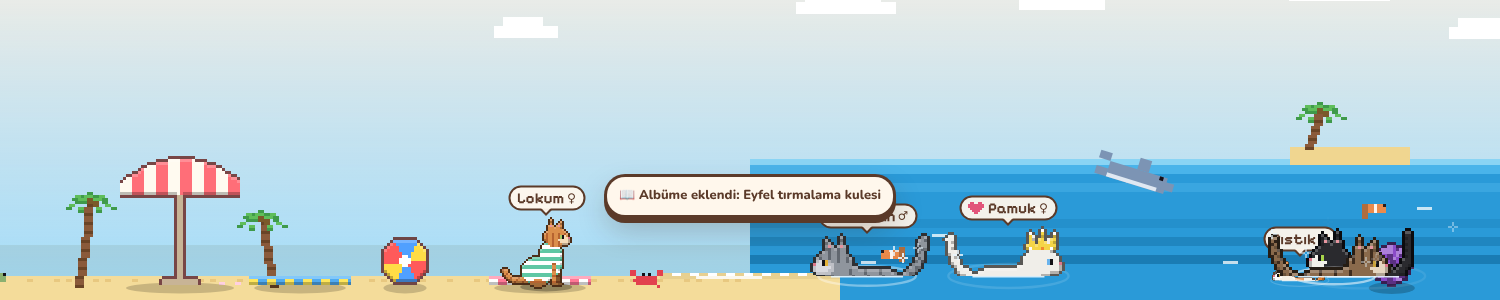
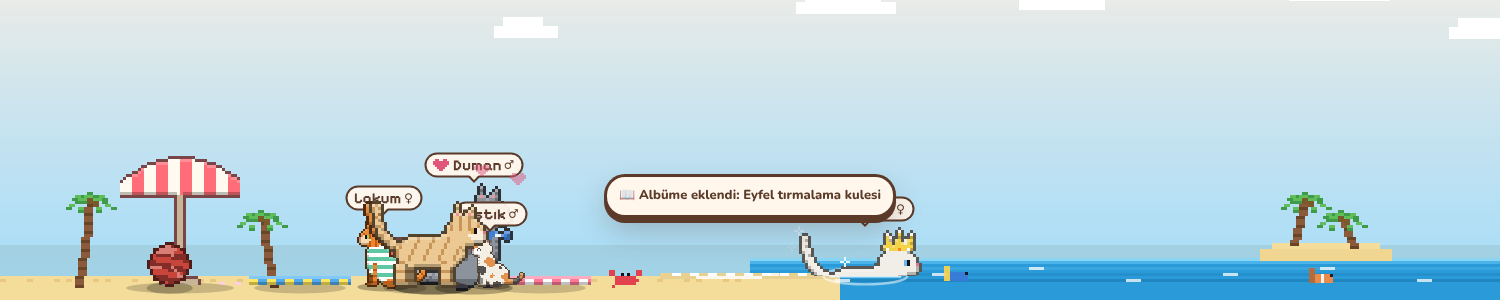
Illustrated city streets with signs on the buildings (market inside, park gate, airport), no separate square; the sea comes up to the sand; landmarks and flags in every city's park; animals stay out of the sea; 58 cat cards (world-tour and seasonal ones); up to ten clouds

diff --git a/src/world.js b/src/world.js
@@ -25,7 +25,7 @@
       lv: (n) => `🐾 Seviye ${n}`, here: "📍 Buradasın", fly: (c) => `✈ Uç · ${c}🪙`, flyHome: "🏠 Eve uç · ücretsiz", locked: (n) => `🔒 Seviye ${n} olunca açılır`, enter: "🏙 Şehre gir",
       park: (b) => `🌳 Park: ${b}`, famous: (d) => `🍽 Meşhur: ${d}`, animal: (a) => `🐾 Hayvanı: ${a}`, items: (n) => `🛍 ${n} şehre özel ürün`, stamps: (a, b) => `🛂 ${a} / ${b} damga`,
       landed: (f, n) => `✈ ${f} ${n}'e vardın!`, first: (n) => `🛂 Pasaportuna yeni damga: ${n}! +10🪙`, home: "Ev", pick: "Haritada bir şehre dokun.",
-      b: { shop: "🛒 Pazar", park: "🌳 Park", square: "🎪 Meydan", map: "🌍 Harita", home: "🏠 Eve dön" },
+      b: { shop: "🛒 Pazar", park: "🌳 Park", square: "🎪 Meydan", airport: "✈ Havalimanı", map: "🌍 Harita", home: "🏠 Eve dön" }, tapBld: "Bir binanın tabelasına dokun, içeri gir.",
       shopH: "Şehre özel pazar", shopNote: "Bu eşyalar sadece bu şehrin pazarında satılır.", bought: (n) => `🛍 ${n} alındı!`, have: (n) => `Sende: ${n}`, cityPark: (c, b) => `${c} parkı · ${b}`,
       search: "Şehir ara…", none: "Bulunamadı",
     },
@@ -34,7 +34,7 @@
       lv: (n) => `🐾 Level ${n}`, here: "📍 You are here", fly: (c) => `✈ Fly · ${c}🪙`, flyHome: "🏠 Fly home · free", locked: (n) => `🔒 Opens at level ${n}`, enter: "🏙 Enter the city",
       park: (b) => `🌳 Park: ${b}`, famous: (d) => `🍽 Famous for: ${d}`, animal: (a) => `🐾 Its animal: ${a}`, items: (n) => `🛍 ${n} things sold only here`, stamps: (a, b) => `🛂 ${a} / ${b} stamps`,
       landed: (f, n) => `✈ ${f} You've landed in ${n}!`, first: (n) => `🛂 A new passport stamp: ${n}! +10🪙`, home: "Home", pick: "Tap a city on the map.",
-      b: { shop: "🛒 Market", park: "🌳 Park", square: "🎪 Square", map: "🌍 Map", home: "🏠 Go home" },
+      b: { shop: "🛒 Market", park: "🌳 Park", square: "🎪 Square", airport: "✈ Airport", map: "🌍 Map", home: "🏠 Go home" }, tapBld: "Tap a building's sign to go in.",
       shopH: "This city's market", shopNote: "These are sold only in this city's market.", bought: (n) => `🛍 Bought: ${n}`, have: (n) => `You have ${n}`, cityPark: (c, b) => `${c} park · ${b}`,
       search: "Find a city…", none: "Not found",
     },
@@ -86,10 +86,10 @@
     }
     function render() {
       const s = t(), x = X(), cur = here();
-      const k = [L.lang, mode, view, sel, x.at, x.visited.length, lvl(), L.wallet.coins, q, mode === "city" ? JSON.stringify(L.pantry) + L.home.items.length : ""].join("|"); if (k === key) return; key = k;
+      const k = [L.lang, mode, view, sel, x.at, x.visited.length, lvl(), L.wallet.coins, q, mode !== "map" ? JSON.stringify(L.pantry) + L.home.items.length : ""].join("|"); if (k === key) return; key = k;
       const sc = root.querySelector(".mk-body"), keep = sc ? sc.scrollTop : 0;
       const head = `<div class="mk-head"><b>🌍 ${esc(s.title)}</b><span class="mk-wal"><span class="coin">🪙 ${L.wallet.coins}</span><span class="star">${esc(s.lv(lvl()))}</span></span><button type="button" class="st-x" data-a="close">×</button></div>`;
-      if (mode === "city") { root.innerHTML = head + `<div class="mk-body">${cityHtml(cur, s)}</div>`; afterCity(cur); }
+      if (mode === "city" || mode === "shop") { root.innerHTML = head + `<div class="mk-body">${mode === "shop" ? shopHtml(cur, s) : cityHtml(cur, s)}</div>`; afterCity(cur); }
       else {
         const { proj } = drawMap(), [lo0, lo1, la0, la1] = VIEWS[view];
         const vis = WD.CITIES.filter((c) => c.lon >= lo0 - 1 && c.lon <= lo1 + 1 && c.lat <= la0 + 1 && c.lat >= la1 - 1);
@@ -117,27 +117,91 @@
           : atHere ? `<button type="button" class="mk-wide gold" data-enter="1">${esc(s.enter)}</button>`
           : `<button type="button" class="mk-wide gold" data-fly="${c.id}"${L.wallet.coins < price ? " disabled" : ""}>${esc(c.id === HOME ? s.flyHome : s.fly(price))}</button>`}`;
     }
+    // ---- the city: a pixel street with its buildings; each building has a sign you tap to go in
+    const BLD = [["shop", 6, 66, 68], ["park", 148, 50, 84], ["airport", 204, 52, 60]];      // id, x, width, where its sign hangs
     function cityHtml(c, s) {
-      const B = A.BIOMES[c.biome] || A.BIOMES.city;
+      return `<div class="wm-street"><canvas width="260" height="170" data-street="${c.id}"></canvas>
+        ${BLD.map(([b, x, w, y]) => `<button type="button" class="wm-bld" data-b="${b}" style="left:${(x / 260) * 100}%;width:${(w / 260) * 100}%;--sy:${(y / 170) * 100}%"><span>${esc(s.b[b])}</span></button>`).join("")}
+        <span class="wm-cityname"><i style="background:${flagCss(c)}"></i>${esc(c.name[L.lang])}</span>
+        ${c.id !== HOME ? `<button type="button" class="wm-homebtn" data-b="home" title="${esc(s.b.home)}">🏠</button>` : ""}</div>
+        <p class="mk-note">${esc(s.tapBld)}</p>
+        <ul class="wm-facts"><li>${esc(s.park((A.BIOMES[c.biome] || A.BIOMES.city)[L.lang]))}</li><li>${esc(s.famous(`${c.dishE} ${c.dish[L.lang]}`))}</li></ul>`;
+    }
+    function shopHtml(c, s) {
       const items = WI.itemsOf(c.id).map((id) => {
         const f = DC.FURN[id], food = L.FOOD[id], names = food ? window.CatMarketSTR[L.lang].foods[id] : L.t("furn")[id], price = f ? f.price : food.price;
         const have = food ? L.pantry[id] || 0 : L.home.items.filter((i) => i.k === id).length;
         return `<div class="mk-card"><div class="mk-pic">${food ? `<div class="mk-emo">${food.e}</div>` : `<canvas width="96" height="72" data-f="${id}"></canvas>`}</div><b>${esc(names[0])}</b><small>${esc(names[1])}</small>
           <div class="mk-foot"><em>${have ? esc(s.have(have)) : ""}</em><button type="button" class="mk-buy" data-buy="${id}"${L.wallet.coins < price ? " disabled" : ""}>🪙 ${price}</button></div></div>`;
       }).join("");
-      return `<div class="wm-sky"><canvas width="520" height="150" data-sky="${c.id}"></canvas><span class="wm-cityname"><i style="background:${flagCss(c)}"></i>${esc(c.name[L.lang])}</span></div>
-        <div class="wm-builds">${["shop", "park", "square", "map", ...(c.id !== HOME ? ["home"] : [])].map((b) => `<button type="button" data-b="${b}">${esc(s.b[b])}</button>`).join("")}</div>
-        <p class="mk-note">${esc(s.cityPark(c.name[L.lang], B[L.lang]))}</p>
-        <h4 class="mk-h" id="wm-shop">🛒 ${esc(s.shopH)}</h4><p class="mk-note">${esc(s.shopNote)}</p><div class="mk-grid">${items}</div>`;
+      return `<div class="wm-shophead"><button type="button" data-b="back">← ${esc(c.name[L.lang])}</button><b>🛒 ${esc(s.shopH)}</b></div>
+        <div class="wm-shopsign"><canvas width="260" height="60" data-shopsign="${c.id}"></canvas></div>
+        <p class="mk-note">${esc(s.shopNote)}</p><div class="mk-grid">${items}</div>`;
+    }
+    // building styles by the part of the world
+    const STYLE = {
+      desert: { wall: "#e8cf98", dk: "#c8a868", roof: "dome", rc: "#e0b866" }, savanna: { wall: "#d8a870", dk: "#b8884a", roof: "thatch", rc: "#c8a050" },
+      jungle: { wall: "#c8a070", dk: "#a8804a", roof: "thatch", rc: "#a88a3a" }, island: { wall: "#f4e4c4", dk: "#d8c49a", roof: "thatch", rc: "#c8a050" },
+      polar: { wall: "#c8463a", dk: "#9a3228", roof: "snow", rc: "#4a3a3a" }, taiga: { wall: "#8a5a32", dk: "#6a4426", roof: "snow", rc: "#4a2e1e" }, fjord: { wall: "#b8342a", dk: "#8a2420", roof: "snow", rc: "#3a3a3a" },
+      sakura: { wall: "#f4ece0", dk: "#d8cbb8", roof: "pagoda", rc: "#3a4a5a" }, bamboo: { wall: "#f4ece0", dk: "#d8cbb8", roof: "pagoda", rc: "#2a6a5a" },
+      med: { wall: "#fbfbfd", dk: "#d8dce4", roof: "flat", rc: "#2a6ad8" }, mountain: { wall: "#f0e6d4", dk: "#c8b898", roof: "chalet", rc: "#6a4426" },
+      steppe: { wall: "#f4ece0", dk: "#d8c8b0", roof: "yurt", rc: "#c8402a" }, pampas: { wall: "#f0e0c8", dk: "#d0b890", roof: "tile", rc: "#c86a3a" },
+      outback: { wall: "#e8d4b8", dk: "#c8a888", roof: "tin", rc: "#9aa2b0" }, city: { wall: "#e8b088", dk: "#c88a62", roof: "tile", rc: "#a8483a" },
+    };
+    function drawStreet(cv, c) {
+      const g = cv.getContext("2d"), W = 260, H = 170, f = 128, B = A.BIOMES[c.biome], st = STYLE[c.biome] || STYLE.city;
+      const p = (x, y, w, h, col) => { g.fillStyle = col; g.fillRect(Math.round(x), Math.round(y), Math.ceil(w), Math.ceil(h)); };
+      g.fillStyle = "#bfe6ff"; g.fillRect(0, 0, W, H);
+      if (B && B.bg) B.bg(g, W, H, f + 2, 1, p, c); else { p(0, 0, W, f, "#cdeefe"); for (let i = 0; i < 5; i++) p(20 + i * 52, 20 + (i % 2) * 10, 22, 4, "#fff"); }
+      // the city's landmark behind the buildings (its first souvenir, drawn big), or a flag on a tall pole
+      const sv = WI.itemsOf(c.id).find((id) => id.startsWith("sv_") && DC.FURN[id].draw && DC.FURN[id].h >= 26);
+      if (sv) { const img = DC.FURN[sv].draw(), sc = Math.min(1.6, 80 / img.height); g.imageSmoothingEnabled = false; g.drawImage(img, Math.round(140 - img.width * sc / 2), Math.round(f - img.height * sc - 26), Math.round(img.width * sc), Math.round(img.height * sc)); }
+      // a building in the local style
+      const bld = (x, w, h, kind) => {
+        const y = f - h; p(x, y, w, h, st.wall); p(x, y + h - 3, w, 3, st.dk); for (let i = x + 4; i < x + w - 4; i += 10) { p(i, y + 8, 6, 7, "#9ad4f4"); p(i, y + 8, 6, 1, "#ffffff"); p(i, y + 15, 6, 1, st.dk); }
+        p(x + w / 2 - 5, f - 14, 10, 14, "#6a4426"); p(x + w / 2 - 4, f - 13, 8, 13, "#8a5a32"); p(x + w / 2 + 2, f - 7, 1, 1, "#ffd34d");
+        if (st.roof === "dome") { for (let i = 0; i < 12; i++) { const ww = Math.round(Math.sqrt(144 - (12 - i) * (12 - i)) * 1.6); p(x + w / 2 - ww / 2, y - 12 + i, ww, 1, st.rc); } p(x + w / 2, y - 15, 1, 3, "#ffd34d"); }
+        else if (st.roof === "thatch") { for (let i = 0; i < 10; i++) p(x - 4 + i, y - 10 + i, w + 8 - i * 2, 1, i % 2 ? st.rc : "#d8b868"); }
+        else if (st.roof === "snow") { for (let i = 0; i < 12; i++) p(x + w / 2 - (i * w / 22) - 2, y - 12 + i, (i * w / 11) + 4, 1, st.rc); p(x + w / 2 - 6, y - 13, 12, 2, "#f4f8ff"); for (let i = 0; i < 12; i += 3) p(x + w / 2 - (i * w / 22) - 3, y - 12 + i, 3, 1, "#f4f8ff"); }
+        else if (st.roof === "pagoda") { p(x - 6, y - 4, w + 12, 4, st.rc); p(x - 8, y - 5, 4, 2, st.rc); p(x + w + 4, y - 5, 4, 2, st.rc); p(x + 4, y - 9, w - 8, 5, "#c8323c"); p(x, y - 12, w, 3, st.rc); }
+        else if (st.roof === "chalet") { for (let i = 0; i < 14; i++) p(x + w / 2 - i * (w / 26) - 3, y - 14 + i, i * (w / 13) + 6, 1, st.rc); p(x + w / 2 - 4, y - 10, 8, 6, "#ffe9a0"); }
+        else if (st.roof === "yurt") { for (let i = 0; i < 10; i++) p(x + 4 - i * 0.4, y - 10 + i, w - 8 + i * 0.8, 1, i % 3 ? "#f4ece0" : st.rc); }
+        else if (st.roof === "flat") { p(x - 2, y - 3, w + 4, 3, st.rc); }
+        else if (st.roof === "tin") { p(x - 3, y - 6, w + 6, 6, st.rc); for (let i = x - 3; i < x + w + 3; i += 3) p(i, y - 6, 1, 6, "#c8ced8"); }
+        else { for (let i = 0; i < 10; i++) p(x + w / 2 - i * (w / 18) - 2, y - 10 + i, i * (w / 9) + 4, 1, i % 2 ? st.rc : "#c85a48"); }
+      };
+      // 🛒 the market: an awning, crates of fruit
+      bld(6, 66, 40); for (let i = 0; i < 66; i += 6) p(6 + i, f - 46, 6, 6, (i / 6) % 2 ? "#ffffff" : "#e2414e"); for (let i = 0; i < 66; i += 6) p(7 + i, f - 40, 4, 2, (i / 6) % 2 ? "#ffffff" : "#e2414e");
+      for (const [cx, col] of [[10, "#ff6a3a"], [52, "#ffd34d"], [60, "#7cc46a"]]) { p(cx, f - 8, 8, 8, "#a8743a"); p(cx + 1, f - 10, 6, 3, col); }
+      // the street is the square: a house in the local style, bunting, a fountain and the country's flag
+      p(80, f - 3, 60, 3, "#d8c8b0"); bld(96, 34, 30);
+      for (let x = 80; x < 140; x += 5) { p(x, f - 42 + Math.round(Math.sin(x / 7) * 2), 3, 3, ["#e2414e", "#ffd34d", "#3aa6e0", "#7cc46a"][(x / 5) % 4]); }
+      p(132, f - 50, 1, 50, "#6a6a72"); c.flag.forEach((col, i) => p(133, f - 50 + i * (10 / c.flag.length), 14, Math.ceil(10 / c.flag.length), col));
+      p(82, f - 10, 12, 7, "#c8ced8"); p(84, f - 12, 8, 2, "#7ac0f0"); p(87, f - 17, 2, 5, "#bfe6ff");
+      // 🌳 the park gate with trees behind
+      for (const tx of [152, 166, 186]) { p(tx + 2, f - 16, 3, 16, "#6a4a2a"); p(tx - 4, f - 30, 16, 14, "#4f9a45"); p(tx - 2, f - 34, 12, 5, "#6fb855"); }
+      p(148, f - 26, 4, 26, "#8a5a32"); p(194, f - 26, 4, 26, "#8a5a32"); p(146, f - 30, 54, 5, "#8a5a32"); p(150, f - 29, 46, 3, "#a8743a"); for (let x = 152; x < 194; x += 4) p(x, f - 10, 2, 10, "#e8d6b8"); p(150, f - 8, 44, 2, "#e8d6b8");
+      // ✈ the airport: a control tower, a hangar and a plane
+      p(206, f - 18, 34, 18, "#c8ced8"); for (let i = 0; i < 6; i++) p(206 + i * 2, f - 24 + i, 34 - i * 4 + 0, 1, "#9aa2b0"); p(212, f - 12, 22, 12, "#5a6474");
+      p(242, f - 46, 8, 46, "#e8ecf2"); p(239, f - 54, 14, 8, "#3a4a6a"); p(240, f - 53, 12, 5, "#9ad4f4"); p(245, f - 58, 2, 4, "#e2414e");
+      p(212, f - 34, 22, 4, "#fbfbfd"); p(220, f - 40, 4, 16, "#fbfbfd"); p(212, f - 37, 3, 4, "#fbfbfd"); p(231, f - 34, 3, 2, "#3aa6e0");
+      // the street
+      p(0, f, W, 5, "#d8d0c4"); p(0, f + 5, W, 22, "#6a6e78"); for (let x = 4; x < W; x += 14) p(x, f + 15, 7, 2, "#f4f0e6"); p(0, f + 27, W, H - f - 27, "#d8d0c4");
+      // the city's animal and a couple of cats out for a walk
+      if (A.ANIMALS[c.animal] && !A.ANIMALS[c.animal].swim) A.drawAnimal(g, c.animal, 200, A.ANIMALS[c.animal].fly ? 26 : f + 40, 1, 0.5, -1, "idle");
+      const mine = world.cats.filter((k) => k.profile).slice(0, 2);
+      mine.forEach((k, i) => { const t2 = document.createElement("canvas"); t2.width = 48; t2.height = 42; DC.portrait(t2.getContext("2d"), k.coat, { scale: 1, dx: 0, dy: 0, acc: k.profile.acc || {}, genes: k.profile.genes, pose: i ? "sit" : "walk", phase: 0.3, t: 1 }); g.imageSmoothingEnabled = false; g.drawImage(t2, 0, 0, 48, 42, 40 + i * 56, f + 40 - 26, 30, 26); });
+    }
+    function drawShopSign(cv, c) {
+      const g = cv.getContext("2d"), st = STYLE[c.biome] || STYLE.city, p = (x, y, w, h, col) => { g.fillStyle = col; g.fillRect(x, y, w, h); };
+      p(0, 0, 260, 60, st.wall); for (let i = 0; i < 260; i += 10) p(i, 0, 10, 10, (i / 10) % 2 ? "#ffffff" : "#e2414e"); for (let i = 0; i < 260; i += 10) p(i + 2, 10, 6, 3, (i / 10) % 2 ? "#ffffff" : "#e2414e");
+      p(0, 52, 260, 8, st.dk); const ids = WI.itemsOf(c.id).filter((id) => DC.FURN[id]).slice(0, 6);
+      ids.forEach((id, i) => { const img = DC.FURN[id].draw ? DC.FURN[id].draw() : null; if (!img) return; const sc = Math.min(1, 36 / img.height, 38 / img.width); g.imageSmoothingEnabled = false; g.drawImage(img, Math.round(14 + i * 42 + (38 - img.width * sc) / 2), Math.round(52 - img.height * sc), Math.round(img.width * sc), Math.round(img.height * sc)); });
     }
     function afterCity(c) {
-      const cv = root.querySelector("canvas[data-sky]"); if (cv) { const g = cv.getContext("2d"), B = A.BIOMES[c.biome]; g.fillStyle = "#bfe6ff"; g.fillRect(0, 0, 520, 150);
-        if (B && B.bg) B.bg(g, 520, 150, 140, 2, (x, y, w, h, col) => { g.fillStyle = col; g.fillRect(Math.round(x), Math.round(y), Math.ceil(w), Math.ceil(h)); }, c);
-        else { g.fillStyle = "#8fcf6b"; g.fillRect(0, 120, 520, 30); for (let i = 0; i < 8; i++) { const h = 30 + A.hash(i + 3) * 60; g.fillStyle = ["#f4ece0", "#e8dcc8", "#d8c8b0"][i % 3]; g.fillRect(i * 66 + 6, 120 - h, 50, h); g.fillStyle = "#7cc6e8"; for (let y = 120 - h + 6; y < 114; y += 12) g.fillRect(i * 66 + 14, y, 8, 6), g.fillRect(i * 66 + 34, y, 8, 6); } }
-        // a few of the region's animals in the picture
-        const list = [c.animal, ...(B ? B.animals : [])].filter((id) => A.ANIMALS[id] && !A.ANIMALS[id].swim).slice(0, 3);
-        list.forEach((id, i) => A.drawAnimal(g, id, 90 + i * 150, A.ANIMALS[id].fly ? 40 : 140, 2, 0.4 + i, i % 2 ? -1 : 1, "idle")); }
-      root.querySelectorAll("canvas[data-f]").forEach((cv) => DC.furnitureThumb(cv.dataset.f, cv.getContext("2d")));
+      const cv = root.querySelector("canvas[data-street]"); if (cv) drawStreet(cv, c);
+      const sg = root.querySelector("canvas[data-shopsign]"); if (sg) drawShopSign(sg, c);
+      root.querySelectorAll("canvas[data-f]").forEach((cv2) => DC.furnitureThumb(cv2.dataset.f, cv2.getContext("2d")));
     }
     root.addEventListener("click", (e) => {
       const b = e.target.closest("button"); if (!b) return; const d = b.dataset;
@@ -146,9 +210,10 @@
       else if (d.city) { sel = d.city; q = ""; }
       else if (d.fly) { fly(WD.byId[d.fly]); return; }
       else if (d.enter) mode = "city";
-      else if (d.b === "map") mode = "map";
+      else if (d.b === "map" || d.b === "airport") mode = "map";
+      else if (d.b === "back") mode = "city";
       else if (d.b === "home") { fly(WD.byId[HOME]); mode = "map"; return; }
-      else if (d.b === "shop") { const h = root.querySelector("#wm-shop"); if (h) h.scrollIntoView({ behavior: "smooth" }); return; }
+      else if (d.b === "shop") { mode = "shop"; const nb = root.querySelector(".mk-body"); if (nb) nb.scrollTop = 0; }
       else if (d.b === "park") { if (window.CatHub.now) window.CatHub.now.open("park"); return; }
       else if (d.b === "square") { if (window.CatHub.now) window.CatHub.now.open("events"); return; }
       else if (d.buy) { buy(d.buy, b); }

diff --git a/src/cat.js b/src/cat.js
@@ -3128,13 +3128,22 @@
       a.set("walk", 3, { target: mid - gap }); b.set("walk", 3, { target: mid + gap });
       setTimeout(() => { if (!this.park) return; a.facing = 1; b.facing = -1; const play = Math.random() < 0.35; a.set(play ? "playBow" : "boop", 1.6); b.set(play ? "pronk" : "boop", 1.6); this.burst(mid, this.floor - 34 * a.s, "heart", "#e2557a", 3); if (this.onSocial) this.onSocial(a, b); }, 2600);
     }
+    // the city's famous landmark, big, in the background of its park (the Eiffel tower in Paris, a torii in Tokyo…), and its flag
+    parkLandmark(g, k) {
+      const P = this.park, c = P && P.city, WI = window.CatWorldItems; if (!c || !WI) return;
+      const sv = WI.itemsOf(c.id).find((id) => id.startsWith("sv_") && FURN[id].draw && FURN[id].h >= 26 && !(c.id === "cairo" && id === "sv_pyramid")), f = this.floor, water = this.parkWater();
+      const x = water ? water.x0 * 0.62 : this.W * 0.42;
+      if (sv) { const img = FURN[sv].draw(), m = Math.max(1, Math.round(k * Math.min(1.6, 70 / img.height))); g.save(); g.globalAlpha = 0.92; g.imageSmoothingEnabled = false; g.drawImage(img, Math.round(x - img.width * m / 2), Math.round(f - img.height * m), img.width * m, img.height * m); g.restore(); }
+      const fx = x + (sv ? 60 * k : 0), fl = c.flag; g.fillStyle = "#6a6a72"; g.fillRect(fx, f - 56 * k, k, 56 * k);
+      fl.forEach((col, i) => { g.fillStyle = col; g.fillRect(fx + k, f - 56 * k + Math.floor(i * 10 / fl.length) * k, 16 * k, Math.ceil(10 / fl.length) * k); });
+    }
     // where the sea is in this park (null when there is none)
     parkWater() { const P = this.park, B = P && P.biome && window.CatWorldArt.BIOMES[P.biome]; return B && B.water ? { x0: this.W * (1 - B.water) } : null; }
     renderPark(ctx, dt = 0) {
       const P = this.park, W = this.W, H = this.H, k = Math.max(2, Math.round(this.toyScale)), f = this.floor, B = P.biome && window.CatWorldArt.BIOMES[P.biome];
       if (B && B.bg) {
         if (!P.img || P.img.width !== W || P.imgF !== f) { const c = document.createElement("canvas"); c.width = W; c.height = H; const g = c.getContext("2d"); P.img = c; P.imgF = f;
-          const px = (x, y, w, h, col) => { g.fillStyle = col; g.fillRect(Math.round(x), Math.round(y), Math.ceil(w), Math.ceil(h)); }; B.bg(g, W, H, f, k, px, P.city); }
+          const px = (x, y, w, h, col) => { g.fillStyle = col; g.fillRect(Math.round(x), Math.round(y), Math.ceil(w), Math.ceil(h)); }; B.bg(g, W, H, f, k, px, P.city); this.parkLandmark(g, k); }
         ctx.drawImage(P.img, 0, 0); if (B.front) B.front(ctx, this, dt, P.S);
         this.renderParkAnimals(ctx);
         if (B.snow) this.renderSnow(ctx, dt, k, 0.12);
@@ -3147,6 +3156,7 @@
         const gr = g.createLinearGradient(0, f - 260, 0, f); gr.addColorStop(0, "rgba(170,225,160,0)"); gr.addColorStop(1, "rgba(150,210,130,.55)"); g.fillStyle = gr; g.fillRect(0, f - 260, W, 260);
         for (let x = 0; x < W; x += 14 * k) { px(x, f - 26 * k, 3 * k, 24 * k, "#e8d6b8"); px(x, f - 28 * k, 3 * k, 2 * k, "#c9b08a"); }
         px(0, f - 20 * k, W, 2 * k, "#d9c29c"); px(0, f - 12 * k, W, 2 * k, "#d9c29c");
+        this.parkLandmark(g, k);                           // the city's landmark stands behind the trees
         // pixel-art trees: a lumpy canopy lit from the top left, a dark outline, a few leaf clusters, a trunk with bark and roots
         const tree = (x, sz, seed) => { const t = parkTree(seed), m = Math.max(2, Math.round(k * sz)); g.imageSmoothingEnabled = false; g.drawImage(t, Math.round(x - (t.width * m) / 2), Math.round(f - t.height * m + m), t.width * m, t.height * m); };
         for (const [x, sz, seed] of [[0.06, 1.25, 1], [0.27, 0.95, 2], [0.52, 1.35, 3], [0.76, 1.05, 4], [0.95, 1.2, 5]]) tree(W * x, sz, seed);
@@ -3179,7 +3189,7 @@
         else {                                                // walkers: stroll, stop to graze or look about
           if (a.pause > 0) { a.pause -= dt; a.st = a.graze ? "graze" : "idle"; }
           else { a.st = "walk"; a.x += a.dir * a.v * dt; if (Math.random() < dt * 0.12) { a.pause = rnd(2, 7); a.graze = Math.random() < 0.6; } }
-          if (water && a.kind === "walk" && a.x > water.x0 - 20 && a.dir > 0 && !A.ANIMALS[a.id].beach) a.dir = -1;
+          if (water && a.kind === "walk" && a.x > water.x0 - 30 && a.dir > 0) { a.dir = -1; a.pause = rnd(1, 3); }
         }
         a.life -= dt;
       }
@@ -3195,9 +3205,10 @@
       else if (D.swim && water) {
         if (D.swim === "jump") Object.assign(a, { kind: "jump", x: water.x0 + rnd(40, this.W - water.x0 - 40), ph: Math.random(), n: 6 + Math.floor(Math.random() * 6) });
         else if (D.swim === "far") Object.assign(a, { kind: "far", k: Math.max(1, Math.round(ts * 0.7)), x: dir > 0 ? water.x0 + 40 : this.W - 40, v: 6, life: rnd(40, 70) });
-        else Object.assign(a, { kind: D.swim, x: water.x0 + rnd(20, this.W - water.x0 - 20), v: rnd(10, 22), y: f - rnd(6, 30) * Math.max(2, Math.round(ts)) });
+        else Object.assign(a, { kind: D.swim, x: water.x0 + rnd(20, this.W - water.x0 - 20), v: rnd(10, 22), y: f - rnd(1, 5) * Math.max(2, Math.round(ts)) });
       } else {
-        const beach = D.beach && water; Object.assign(a, { kind: "walk", x: beach ? water.x0 - rnd(10, 120) : dir > 0 ? -50 : this.W + 50, v: (D.beach ? 12 : rnd(16, 30)) * ts / 3, pause: beach ? 3 : 0 });
+        const beach = D.beach && water; Object.assign(a, { kind: "walk", x: beach ? water.x0 - rnd(10, 120) : water ? -50 : dir > 0 ? -50 : this.W + 50, v: (D.beach ? 12 : rnd(16, 30)) * ts / 3, pause: beach ? 3 : 0 });
+        if (water && !beach) a.dir = 1;
         if (id === "kangaroo") a.v *= 2.2; if (["sloth", "tortoise", "turtle", "koala"].includes(id)) a.v *= 0.35;
       }
       P.animals.push(a); if (this.onAnimalSeen) this.onAnimalSeen(id);
@@ -3210,8 +3221,8 @@
       for (const a of P.animals) {
         const fade = Math.min(1, a.life / 3); ctx.save(); ctx.globalAlpha = fade;
         if (a.kind === "fly") A.drawAnimal(ctx, a.id, a.x, a.y, a.k, a.t, a.dir);
-        else if (a.kind === "jump") { if (a.ph < 0.6) { const q = a.ph / 0.6, y = f - 16 * k0 - Math.sin(q * Math.PI) * 26 * k0; ctx.translate(a.x, y); ctx.rotate(a.dir * (q - 0.5) * 1.2); A.drawAnimal(ctx, a.id, 0, 0, a.k, a.t, a.dir); ctx.setTransform(1, 0, 0, 1, 0, 0); if (q < 0.06 || q > 0.94) { ctx.fillStyle = "rgba(255,255,255,.8)"; ctx.fillRect(a.x - 6 * k0, f - 16 * k0, 12 * k0, k0); } } }
-        else if (a.kind === "far") { if (a.x < water.x0 + 20 || a.x > this.W - 20) a.dir *= -1; const wy = f - 9 * k0; ctx.save(); ctx.beginPath(); ctx.rect(0, 0, this.W, wy + 2 * a.k); ctx.clip(); A.drawAnimal(ctx, a.id, a.x, wy + 4 * a.k, a.k, a.t, a.dir); ctx.restore(); if ((a.t % 6) < 1.4) { ctx.fillStyle = "rgba(255,255,255,.85)"; const sx = a.x + a.dir * 8 * a.k; for (let i = 0; i < 4; i++) ctx.fillRect(sx + (i - 1.5) * 2 * k0, wy - 4 * a.k - (a.t % 6) * 5 * k0 - i * k0, k0, k0 * 2); } }
+        else if (a.kind === "jump") { if (a.ph < 0.6) { const q = a.ph / 0.6, y = f - 7 * k0 - Math.sin(q * Math.PI) * 26 * k0; ctx.translate(a.x, y); ctx.rotate(a.dir * (q - 0.5) * 1.2); A.drawAnimal(ctx, a.id, 0, 0, a.k, a.t, a.dir); ctx.setTransform(1, 0, 0, 1, 0, 0); if (q < 0.06 || q > 0.94) { ctx.fillStyle = "rgba(255,255,255,.8)"; ctx.fillRect(a.x - 6 * k0, f - 8 * k0, 12 * k0, k0); } } }
+        else if (a.kind === "far") { if (a.x < water.x0 + 20 || a.x > this.W - 20) a.dir *= -1; const wy = f - 4 * k0; ctx.save(); ctx.beginPath(); ctx.rect(0, 0, this.W, wy + 2 * a.k); ctx.clip(); A.drawAnimal(ctx, a.id, a.x, wy + 4 * a.k, a.k, a.t, a.dir); ctx.restore(); if ((a.t % 6) < 1.4) { ctx.fillStyle = "rgba(255,255,255,.85)"; const sx = a.x + a.dir * 8 * a.k; for (let i = 0; i < 4; i++) ctx.fillRect(sx + (i - 1.5) * 2 * k0, wy - 4 * a.k - (a.t % 6) * 5 * k0 - i * k0, k0, k0 * 2); } }
         else if (a.kind === "drift" || a.kind === "fish") { ctx.globalAlpha = fade * (a.kind === "drift" ? 0.75 : 0.9); A.drawAnimal(ctx, a.id, a.x, a.y, a.k, a.t, a.dir); }
         else A.drawAnimal(ctx, a.id, a.x, f, a.k, a.t, a.dir, a.st);
         ctx.restore();
@@ -3598,12 +3609,17 @@
       this.cloudT -= dt;
       if (this.cloudT <= 0) {
         // how long until the next one: rare on clear days, often when it's cloudy, rainy or stormy
-        const gap = { clear: [300, 720], "": [240, 600], cloud: [45, 140], drizzle: [40, 110], rain: [25, 80], storm: [18, 55], snow: [50, 150], fog: [120, 300] }[kind] || [240, 600];
+        // how many can be up at once: a random handful, up to ten (more when it's cloudy)
+        const gap = { clear: [70, 220], "": [60, 200], cloud: [14, 45], drizzle: [12, 40], rain: [10, 30], storm: [8, 24], snow: [18, 55], fog: [40, 120] }[kind] || [60, 200];
         this.cloudT = rnd(gap[0], gap[1]);
-        const q = Math.random(), bow = !grey && !night && kind !== "fog" && kind !== "snow";
-        const c = { w: Math.round(rnd(18, 27)), seed: Math.random(), bob: rnd(0, 6), mood: night || Math.random() < 0.25 ? "sleepy" : "happy", deco: bow && q < 0.2 ? "drip" : bow && q < 0.32 ? "arc" : "", grey };
-        c.x = dir > 0 ? -(c.w + 40) * k : this.W + 10 * k; c.y = rnd(4, 60); c.v = (12 + 24 * Math.abs(wind) + rnd(0, 8)) * dir;
-        if (this.sky.length < 6) this.sky.push(c);
+        if (!this.cloudCap || Math.random() < 0.15) this.cloudCap = Math.round(rnd(["cloud", "rain", "storm", "drizzle"].includes(kind) ? 6 : 3, 10));
+        const group = Math.random() < 0.35 ? 2 + Math.floor(Math.random() * 2) : 1;
+        for (let gi = 0; gi < group && this.sky.length < this.cloudCap; gi++) {
+          const q = Math.random(), bow = !grey && !night && kind !== "fog" && kind !== "snow";
+          const c = { w: Math.round(rnd(16, 28)), seed: Math.random(), bob: rnd(0, 6), mood: night || Math.random() < 0.25 ? "sleepy" : "happy", deco: bow && q < 0.2 ? "drip" : bow && q < 0.32 ? "arc" : "", grey };
+          c.x = (dir > 0 ? -(c.w + 40) * k : this.W + 10 * k) - dir * gi * rnd(60, 160) * k; c.y = rnd(4, 80); c.v = (12 + 24 * Math.abs(wind) + rnd(0, 8)) * dir;
+          this.sky.push(c);
+        }
         if (this.cloudImgs.size > 40) this.cloudImgs.clear();
       }
       for (const c of this.sky) {

diff --git a/src/world-art.js b/src/world-art.js
@@ -331,10 +331,11 @@
       bg(g, W, H, f, k, px) {
         sky(g, W, f, "rgba(110,200,255,0)", "rgba(140,215,255,.75)"); cloudsOf(px, W, f, k, 5);
         const sx = W * (1 - this.water);
-        px(sx, f - 40 * k, W - sx, 40 * k + H - f, "#2a9ad8"); for (let i = 0; i < 6; i++) px(sx, f - (40 - i * 6) * k, W - sx, 3 * k, ["#4ab4ea", "#3aa6e0", "#2a9ad8", "#2490cc", "#1f86c0", "#1a7cb4"][i]);
-        px(sx, f - 42 * k, W - sx, 2 * k, "#8ad4f4");
-        // far island with a palm, the sand, a few shells and starfish
-        px(W * 0.86, f - 46 * k, 40 * k, 6 * k, "#f0d690"); palm(px, W * 0.87, f - 46 * k, k, 14, 1);
+        // the sea comes right up to the sand: its surface is just a little above the beach
+        px(sx, f - 8 * k, W - sx, 8 * k + H - f, "#2a9ad8"); for (let i = 0; i < 4; i++) px(sx, f - (8 - i * 2) * k, W - sx, k, ["#4ab4ea", "#3aa6e0", "#2490cc", "#1f86c0"][i]);
+        px(sx, f - 9 * k, W - sx, k, "#8ad4f4");
+        // the little far island with its palm, sitting on the horizon
+        px(W * 0.84, f - 12 * k, 44 * k, 4 * k, "#f0d690"); px(W * 0.84 + 4 * k, f - 14 * k, 36 * k, 2 * k, "#f4dc9a"); palm(px, W * 0.86, f - 14 * k, k, 16, 1); palm(px, W * 0.84 + 30 * k, f - 13 * k, k, 11, -1);
         px(0, f - 3 * k, sx + 30 * k, H - f + 3 * k, "#f4dc9a"); for (let x = 0; x < sx; x += 7 * k) px(x + ((x / k) % 5) * k, f - 2 * k, 2 * k, k, "#e8c880");
         for (let i = 0; i < 6; i++) { const x = hash(i + 40) * (sx - 20 * k); px(x, f - k, 2 * k, k, i % 2 ? "#ff8a6a" : "#ffd0e0"); }
         px(sx - 30 * k, f - 4 * k, 60 * k, 2 * k, "#e8d090"); for (let x = sx - 26 * k; x < sx + 30 * k; x += 6 * k) px(x, f - 4 * k, 3 * k, k, "#fff");
@@ -342,7 +343,7 @@
       },
       front(ctx, w, dt, S) {
         const k = Math.max(2, Math.round(w.toyScale)), f = w.floor, sx = w.W * (1 - this.water); S.t = (S.t || 0) + dt;
-        ctx.fillStyle = "rgba(255,255,255,.75)"; for (let i = 0; i < 9; i++) { const x = sx + ((i * 97 + S.t * 24) % (w.W - sx)), y = f - (8 + (i % 4) * 9) * k; ctx.fillRect(Math.round(x), Math.round(y), 5 * k, k); }
+        ctx.fillStyle = "rgba(255,255,255,.75)"; for (let i = 0; i < 9; i++) { const x = sx + ((i * 97 + S.t * 24) % (w.W - sx)), y = f - (2 + (i % 3) * 2) * k; ctx.fillRect(Math.round(x), Math.round(y), 5 * k, k); }
         const foam = Math.sin(S.t * 1.3) * 4 * k; ctx.fillStyle = "rgba(255,255,255,.85)"; ctx.fillRect(sx - 14 * k + foam, f - 3 * k, 22 * k, k);
       } },
     // 🧊 the poles: snowy hills, igloos, an old hut, northern lights at night; it always snows a little
@@ -417,12 +418,12 @@
       bg(g, W, H, f, k, px) {
         sky(g, W, f, "rgba(150,190,230,0)", "rgba(170,205,235,.6)"); cloudsOf(px, W, f, k, 4);
         for (let x = 0; x < W; x += k) { const edge = Math.abs(x / W - 0.6) * 2, v = 30 + edge * 70 + Math.sin(x / k / 9) * 6; px(x, f - v * k, k, v * k, "#6a7a8a"); if (v > 75) px(x, f - v * k, k, 6 * k, "#f4f8ff"); px(x, f - v * k + 6 * k, k, 2 * k, "#5a8a5a"); }
-        const sx = W * 0.6; px(sx, f - 14 * k, W - sx, 14 * k + H - f, "#2a5a7a"); for (let i = 0; i < 3; i++) px(sx, f - (14 - i * 4) * k, W - sx, 2 * k, ["#4a7aa0", "#3a6a90", "#2f6084"][i]);
+        const sx = W * 0.6; px(sx, f - 8 * k, W - sx, 8 * k + H - f, "#2a5a7a"); for (let i = 0; i < 3; i++) px(sx, f - (8 - i * 2) * k, W - sx, k, ["#4a7aa0", "#3a6a90", "#2f6084"][i]);
         for (let i = 0; i < 6; i++) pine(px, W * 0.04 + i * 30 * k, f, k, 22 + hash(i) * 10, false);
         const bx = W * 0.4; px(bx, f - 14 * k, 22 * k, 14 * k, "#b8342a"); px(bx - 2 * k, f - 19 * k, 26 * k, 5 * k, "#3a3a3a"); px(bx + 4 * k, f - 10 * k, 5 * k, 4 * k, "#fff"); px(bx + 13 * k, f - 9 * k, 5 * k, 9 * k, "#5a2a22");
         grass(px, sx, f, k, "#6aa85a", "#4f8a45", H); px(sx - 6 * k, f - 2 * k, 10 * k, 2 * k, "#9aa2b0");
       },
-      front(ctx, w, dt, S) { const k = Math.max(2, Math.round(w.toyScale)), sx = w.W * 0.6; S.t = (S.t || 0) + dt; ctx.fillStyle = "rgba(255,255,255,.4)"; for (let i = 0; i < 6; i++) ctx.fillRect(Math.round(sx + ((i * 151 + S.t * 14) % (w.W - sx))), Math.round(w.floor - (4 + (i % 3) * 4) * k), 6 * k, k); } },
+      front(ctx, w, dt, S) { const k = Math.max(2, Math.round(w.toyScale)), sx = w.W * 0.6; S.t = (S.t || 0) + dt; ctx.fillStyle = "rgba(255,255,255,.4)"; for (let i = 0; i < 6; i++) ctx.fillRect(Math.round(sx + ((i * 151 + S.t * 14) % (w.W - sx))), Math.round(w.floor - (2 + (i % 3) * 2) * k), 6 * k, k); } },
     // 🐎 steppe: endless grass, a yurt, big sky
     steppe: { tr: "Bozkır", en: "Steppe", animals: ["horse", "camel", "eagle", "sheep", "wolf", "yak"],
       bg(g, W, H, f, k, px) {
@@ -472,7 +473,7 @@
     med: { tr: "Akdeniz sahili", en: "Mediterranean coast", water: 0.35, props: ["parasol", "beachball", "towel"], animals: ["dolphin", "gull", "goat", "turtle", "fish"],
       bg(g, W, H, f, k, px) {
         sky(g, W, f, "rgba(110,190,250,0)", "rgba(140,205,255,.6)");
-        const sx = W * 0.65; px(sx, f - 26 * k, W - sx, 26 * k + H - f, "#2a7ad8"); px(sx, f - 26 * k, W - sx, 3 * k, "#5aa6ea");
+        const sx = W * 0.65; px(sx, f - 8 * k, W - sx, 8 * k + H - f, "#2a7ad8"); px(sx, f - 8 * k, W - sx, k, "#5aa6ea"); px(sx, f - 9 * k, W - sx, k, "#8ac4f4");
         for (let i = 0; i < 5; i++) { const x = W * 0.04 + i * 34 * k, h = 14 + (i % 3) * 5; px(x, f - (8 + h) * k, 24 * k, h * k, "#fbfbfd"); px(x, f - (10 + h) * k, 24 * k, 2 * k, i % 2 ? "#2a6ad8" : "#d86a3a"); px(x + 4 * k, f - (4 + h) * k, 4 * k, 4 * k, "#2a6ad8"); px(x + 14 * k, f - (4 + h) * k, 4 * k, 4 * k, "#2a6ad8"); }
         hills(g, W * 0.7, f, k, "#a8b878", 10, 4, 8);
         const olive = (x) => { for (let i = 0; i < 14; i++) px(x + Math.round(Math.sin(i / 3) * 2) * k, f - i * k, 3 * k, k, "#7a6a5a"); for (let i = 0; i < 30; i++) px(x + (hash(i + x) * 24 - 12) * k, f - (14 + hash(i * 3 + x) * 8) * k, 4 * k, 2 * k, i % 2 ? "#7a9a6a" : "#9ab88a"); };
@@ -480,7 +481,7 @@
         px(0, f - 3 * k, sx + 20 * k, H - f + 3 * k, "#f0dcaa"); for (let x = 0; x < sx; x += 6 * k) px(x + ((x / k) % 4) * k, f - 2 * k, 2 * k, k, "#e0c890");
         px(sx - 8 * k, f - 4 * k, 30 * k, 2 * k, "#e8d090");
       },
-      front(ctx, w, dt, S) { const k = Math.max(2, Math.round(w.toyScale)), sx = w.W * 0.65; S.t = (S.t || 0) + dt; ctx.fillStyle = "rgba(255,255,255,.6)"; for (let i = 0; i < 7; i++) ctx.fillRect(Math.round(sx + ((i * 131 + S.t * 18) % (w.W - sx))), Math.round(w.floor - (6 + (i % 4) * 5) * k), 5 * k, k); } },
+      front(ctx, w, dt, S) { const k = Math.max(2, Math.round(w.toyScale)), sx = w.W * 0.65; S.t = (S.t || 0) + dt; ctx.fillStyle = "rgba(255,255,255,.6)"; for (let i = 0; i < 7; i++) ctx.fillRect(Math.round(sx + ((i * 131 + S.t * 18) % (w.W - sx))), Math.round(w.floor - (2 + (i % 3) * 2) * k), 5 * k, k); } },
   };
 
   window.CatWorldArt = { ANIMALS, BIOMES, drawAnimal, animalThumb, hash };

diff --git a/src/cards.js b/src/cards.js
@@ -40,15 +40,21 @@
   function create(o) {
     const { world, save, toast } = o, DC = window.DesktopCat;
     // the cards: every coat (big cats are epic, the fancier house cats rare), then the moments
-    const CARDS = [...DC.COAT_KEYS.map((k, i) => ({ id: "c_" + k, coat: k, r: DC.COATS[k].wild ? 2 : i < 9 ? 0 : 1, pose: "sit" })), ...MOMENTS];
+    // world-tour cards (one for each kind of park: you also get it the first time you take your cats there) and seasonal-costume cards
+    const TOUR = { city: [1, "ginger"], med: [1, "white"], steppe: [1, "cream"], pampas: [1, "calico"], island: [2, "tortie"], desert: [2, "siamese"], savanna: [2, "lion"], jungle: [2, "leopard"],
+      taiga: [2, "maine"], mountain: [2, "snowleo"], fjord: [2, "grey"], bamboo: [2, "tuxedo"], sakura: [3, "white"], outback: [2, "ginger"], polar: [3, "silver"] };
+    const WORLD = window.CatWorldArt ? Object.entries(TOUR).map(([b, [r, coat]], i) => ({ id: "w_" + b, r, coat, biome: b, pose: ["sit", "walk", "sideLie", "stand", "sphinx"][i % 5] })) : [];
+    const SEASONAL = Object.keys(DC.WARDROBE.outfit).filter((d) => DC.WARDROBE.outfit[d].season).map((d, i) => ({ id: "k_" + d, r: 1, coat: DC.COAT_KEYS[(i * 5) % 17], pose: "sit", acc: { outfit: d + ":cherry" }, bg: { winter: ["#e8f1ff", "#a9c2e6"], spring: ["#ffe8f0", "#ffb8d0"], summer: ["#fff1b8", "#ffc870"], autumn: ["#ffe2c0", "#e8945a"] }[DC.WARDROBE.outfit[d].season] }));
+    const CARDS = [...DC.COAT_KEYS.map((k, i) => ({ id: "c_" + k, coat: k, r: DC.COATS[k].wild ? 2 : i < 9 ? 0 : 1, pose: "sit" })), ...MOMENTS, ...WORLD, ...SEASONAL];
     const byId = Object.fromEntries(CARDS.map((c) => [c.id, c]));
     const C = () => { const x = (L.extra.cards = L.extra.cards || { own: {}, dust: 0, packs: 1, week: "", rows: [] }); if (x.week !== weekKey()) { if (x.week) x.packs++; x.week = weekKey(); } return x; };
-    const nameOf = (c) => (c.coat && c.id.startsWith("c_") ? L.COAT_NAMES[c.coat][L.lang] : t().m[c.id]);
+    const nameOf = (c) => (c.id.startsWith("c_") ? L.COAT_NAMES[c.coat][L.lang] : c.id.startsWith("w_") ? `${L.lang === "tr" ? "Dünya turu" : "World tour"}: ${window.CatWorldArt.BIOMES[c.biome][L.lang]}` : c.id.startsWith("k_") ? (DC.WARDROBE.outfit[c.id.slice(2)][L.lang]).replace(/^./, (x) => x.toLocaleUpperCase(L.lang)) : t().m[c.id]);
     const owned = () => Object.keys(C().own).filter((k) => C().own[k] > 0).length;
 
     function drawCard(cv, c, have) {
       const g = cv.getContext("2d"), W = cv.width, H = cv.height, bg = c.bg || [["#fff7ec", "#f1e1cf"], ["#e4f1ff", "#a9c8f0"], ["#f1e4ff", "#b996e6"], ["#fff1b8", "#f0b84a"]][c.r];
       const gr = g.createLinearGradient(0, 0, 0, H); gr.addColorStop(0, bg[0]); gr.addColorStop(1, bg[1]); g.fillStyle = gr; g.fillRect(0, 0, W, H);
+      if (c.biome) { const B = window.CatWorldArt.BIOMES[c.biome]; g.fillStyle = "#bfe6ff"; g.fillRect(0, 0, W, H); if (B.bg) B.bg(g, W, H, H - 12, 1, (x, y, w, h, col) => { g.fillStyle = col; g.fillRect(Math.round(x), Math.round(y), Math.ceil(w), Math.ceil(h)); }, null); else { g.fillStyle = "#8fcf6b"; g.fillRect(0, H - 14, W, 14); } }
       if (c.snow) { g.fillStyle = "#fff"; for (let i = 0; i < 26; i++) g.fillRect((i * 37) % W, (i * 53) % (H - 10), 2, 2); }
       if (c.glow) { g.fillStyle = "#fff6c8"; g.beginPath(); g.arc(W * 0.78, H * 0.2, 9, 0, Math.PI * 2); g.fill(); for (let i = 0; i < 14; i++) g.fillRect((i * 29) % W, (i * 17) % (H / 2), 1, 1); }
       const p = document.createElement("canvas"); p.width = 96; p.height = 84;
@@ -92,6 +98,8 @@
       return got;
     }
     L.giveCardPack = (n = 1) => { C().packs += n; L.changed(); };
+    // a card you earn by doing something (the first visit to each kind of park)
+    L.giveCard = (id) => { const c = byId[id]; if (!c || C().own[id]) return; add(c); setTimeout(() => toast(t().got(nameOf(c), "✈")), 1500); L.changed(); save(); };
     // the Moon Cat leaves its own card (and a star) when you catch it
     world.onMoonCat = () => {
       const X = C(), c = byId.m_moon, isNew = add(c); L.wallet.stars++; L.earn(20); if (L.addPawPoints) L.addPawPoints(60); if (L.gainPXP) L.gainPXP(25);

diff --git a/src/market.css b/src/market.css
@@ -449,3 +449,18 @@
 .wm-map.v-all .wm-pin { width: 8px; height: 6px; margin: -3px 0 0 -4px; border-radius: 2px; box-shadow: 0 0 0 1px #5b3a29; }
 .wm-map.v-all .wm-pin.lock { width: 5px; height: 4px; margin: -2px 0 0 -2px; }
 .wm-map.v-all .wm-pin:hover, .wm-map.v-all .wm-pin.sel { transform: scale(2.2); }
+.wm-street { position: relative; border-radius: 14px; overflow: hidden; box-shadow: 0 0 0 3px #5b3a29; }
+.wm-street canvas { display: block; width: 100%; image-rendering: pixelated; }
+.wm-bld { position: absolute; top: 0; bottom: 24%; --sy: 6%; border: 0; padding: 0; background: transparent; cursor: pointer; display: flex; justify-content: center; align-items: flex-start; }
+.wm-bld span { position: absolute; top: var(--sy); transform: translateY(-50%); padding: 4px 9px; border-radius: 10px; background: #fff7ec; color: #5b3a29; font: 800 12px "Nunito", sans-serif; white-space: nowrap; box-shadow: 0 0 0 2.5px #5b3a29, 0 3px 0 2.5px #5b3a29; transition: transform .12s; animation: wm-sign 2.4s ease-in-out infinite; }
+.wm-bld:nth-of-type(2) span { animation-delay: -.6s; } .wm-bld:nth-of-type(3) span { animation-delay: -1.2s; } .wm-bld:nth-of-type(4) span { animation-delay: -1.8s; }
+@keyframes wm-sign { 50% { transform: translateY(calc(-50% - 3px)); } }
+.wm-bld:hover span { background: #ffd34d; transform: translateY(calc(-50% - 4px)) scale(1.06); animation: none; }
+.wm-bld:hover { background: rgba(255, 255, 255, .12); }
+.wm-street .wm-cityname { top: auto; bottom: 8px; left: 8px; }
+.wm-homebtn { position: absolute; right: 8px; bottom: 8px; border: 0; border-radius: 12px; padding: 4px 9px; font-size: 18px; background: #fff7ec; cursor: pointer; box-shadow: 0 0 0 2.5px #5b3a29; }
+.wm-shophead { display: flex; align-items: center; gap: 10px; margin-bottom: 8px; }
+.wm-shophead button { border: 0; border-radius: 12px; padding: 6px 11px; background: #fff; color: #5b3a29; font: 800 13px "Nunito", sans-serif; cursor: pointer; box-shadow: 0 0 0 2px #5b3a29, 0 3px 0 2px #5b3a29; }
+.wm-shophead b { font: 700 16px "Pixelify Sans", monospace; }
+.wm-shopsign { border-radius: 12px; overflow: hidden; box-shadow: 0 0 0 3px #5b3a29; margin-bottom: 6px; }
+.wm-shopsign canvas { display: block; width: 100%; image-rendering: pixelated; }

diff --git a/src/world-data.js b/src/world-data.js
@@ -225,7 +225,7 @@
     ["honolulu", "Honolulu (Hawaii)", "ABD · Hawaii|USA · Hawaii", 21.31, -157.86, "spe", "#ffffff #cc0000 #00247d", "Poke", "🍣", "turtle", "island"],
     ["amazon", "Manaus (Amazon)", "Brezilya · Amazon|Brazil · Amazon", -3.12, -60.02, "spe", "#009c3b #ffdf00 #002776", "Tacacá", "🥣", "crocodile", "jungle"],
     ["galapagos", "Galápagos", "Ekvador · Galápagos|Ecuador · Galápagos", -0.95, -90.97, "spe", "#ffd100 #0072ce #ef3340", "Encebollado", "🐟", "tortoise", "island"],
-    ["antarctica", "Antarktika Üssü|Antarctic Base", "Antarktika|Antarctica", -75.0, 0.0, "spe", "#ffffff #0f4c81", "Kakao|Hot cocoa", "☕", "penguin", "polar"],
+    ["antarctica", "Antarktika Üssü|Antarctic Base", "Antarktika|Antarctica", -57.5, 0.0, "spe", "#ffffff #0f4c81", "Kakao|Hot cocoa", "☕", "penguin", "polar"],
     ["sahara", "Sahra Vahası|Sahara Oasis", "Sahra|Sahara", 23.4, 8.0, "spe", "#e8c886 #3f8a3a", "Hurma|Dates", "🌴", "fennec", "desert"],
     ["serengeti", "Serengeti", "Tanzanya · Serengeti|Tanzania · Serengeti", -2.33, 34.83, "spe", "#1eb53a #fcd116 #00a3dd", "Mandazi", "🍩", "zebra", "savanna"],
   ];

diff --git a/src/extras.js b/src/extras.js
@@ -169,7 +169,7 @@
     function goPark(ids) {
       const S = PK(), now = Date.now(); if (world.park || now < S.next || !ids.length) return;
       S.at = now; S.until = now + PARK_MIN * 60e3; S.ids = ids; const where = window.CatWorld && window.CatWorld.now ? window.CatWorld.now.parkWhere() : {}; S.biome = where.biome || null; S.city = where.city ? where.city.id : null;
-      world.enterPark(ids, 3 + Math.floor(Math.random() * 3), where); close(); L.changed(); save();
+      world.enterPark(ids, 3 + Math.floor(Math.random() * 3), where); if (where.biome && L.giveCard) L.giveCard("w_" + where.biome); close(); L.changed(); save();
     }
     function leavePark() {
       const S = PK(), now = Date.now(); if (!S.at) return;
